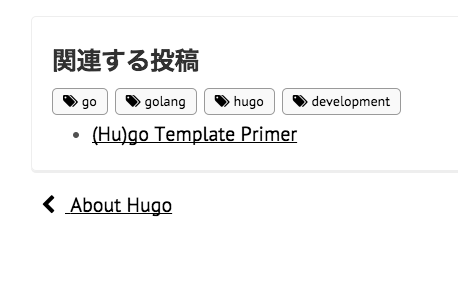
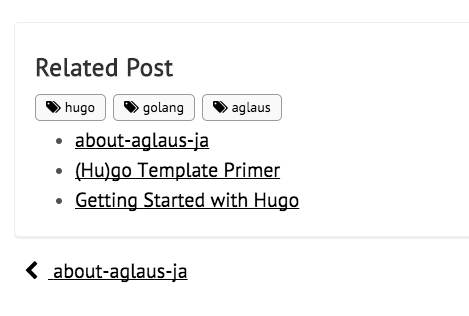
rebuilding site Wed Jan  7 22:39:31 JST 2015

diff --git a/index.html b/index.html
@@ -77,16 +77,16 @@
     <article class="post">
         <div class="eyecatch">
             
-            <a href="http://yet.unresolved.xyz/hugo_theme_aglaus/blog/2015/01/06/about-aglaus-ja/"><img src="/images/hugo.png" alt="about-aglaus-ja"></a>
+            <a href="http://yet.unresolved.xyz/hugo_theme_aglaus/blog/2015/01/06/about-aglaus/"><img src="/images/hugo.png" alt="about-aglaus"></a>
             
         </div>
         <div class="data">
             <span class="post-date">Tue, Jan 6, 2015</span>
-            <h1 class="post-title"><a href="http://yet.unresolved.xyz/hugo_theme_aglaus/blog/2015/01/06/about-aglaus-ja/">about-aglaus-ja</a></h1>
-            <div class="summary">Hugo用テーマ[Aglaus]について AglausはGolangで書かれた静的サイトジェネレータ、Hugo用のテーマです。 導入方法についてはAglausのREADME.mdを参照してください。 コメント Disqusが導入出来ます。 config.yamlのDisqusを設定し、記事のMarkdownにcomments: trueを設定してください。 設定されなかった場合、コメント欄は表示されません。 特定の記事のみコメントを拒否する場合は、commentsを未設定にするか、falseを設定してください。 --- title: &quot;about-aglaus&quot; date: 2015-01-06 comments: false --- ## About hugo theme [Aglaus] : : 日本語用の記事タイトル Hugoは記事のパーマリンク設定に:titleを含めた場合、Markdownに記述されたtitleをURLに設定します。 日本語を設定するとパーセントエンコードされた形でURLが生成されますが、Aglausではtitlejaを設定することで、記事のタイトルを別途設定出来ます。 --- title: &quot;about-aglaus&quot; // URLに設定される titleja: &quot;Aglausについて&quot; // 記事のタイトルとして表示される date: 2015-01-06 --- ## About hugo theme [Aglaus] : : titlejaタグを設定しなかった場合はtitleが設定されます。 アイキャッチ画像 記事単位にアイキャッチ画像が設定出来ます。 記事のMarkdownファイルにeyecatchを設定し、static/images/以下に画像を配備してください。 --- title: &quot;about-aglaus&quot; eyecatch: &quot;hugo.png&quot; date: 2015-01-06 --- ## About hugo theme [Aglaus] : : 不要な場合は記述を削除することでデフォルト画像が表示されます。 タギング tagsを設定することで、記事にタグをつけることが出来ます。 --- title:</div>
+            <h1 class="post-title"><a href="http://yet.unresolved.xyz/hugo_theme_aglaus/blog/2015/01/06/about-aglaus/">about-aglaus</a></h1>
+            <div class="summary">About hugo theme [Aglaus] Aglaus is theme for Hugo. Please refer to the README.md of Aglaus for introduction method. Comment You can use Disqus. Set Disqus to config.yaml, and set comments: true to Markdown. If you did not set, the comments section is not displayed. If you want to deny a comment only particular article, you can either unset the comments, please set the false. --- title: &quot;about-aglaus&quot; date: 2015-01-06 comments: false --- ## About hugo theme [Aglaus] : : Eyecatch image Eye-catching image can be set to the article unit.</div>
         </div>
         <footer class="readon">
-            <a href="http://yet.unresolved.xyz/hugo_theme_aglaus/blog/2015/01/06/about-aglaus-ja/">
+            <a href="http://yet.unresolved.xyz/hugo_theme_aglaus/blog/2015/01/06/about-aglaus/">
                 <i class="fa fa-chevron-down"></i>
             </a>
         </footer>
@@ -98,16 +98,16 @@
     <article class="post">
         <div class="eyecatch">
             
-            <a href="http://yet.unresolved.xyz/hugo_theme_aglaus/blog/2015/01/06/about-aglaus/"><img src="/images/hugo.png" alt="about-aglaus"></a>
+            <a href="http://yet.unresolved.xyz/hugo_theme_aglaus/blog/2015/01/06/about-aglaus-ja/"><img src="/images/hugo.png" alt="about-aglaus-ja"></a>
             
         </div>
         <div class="data">
             <span class="post-date">Tue, Jan 6, 2015</span>
-            <h1 class="post-title"><a href="http://yet.unresolved.xyz/hugo_theme_aglaus/blog/2015/01/06/about-aglaus/">about-aglaus</a></h1>
-            <div class="summary">About hugo theme [Aglaus] Aglaus is theme for Hugo. Please refer to the README.md of Aglaus for introduction method. Comment You can use Disqus. Set Disqus to config.yaml, and set comments: true to Markdown. If you did not set, the comments section is not displayed. If you want to deny a comment only particular article, you can either unset the comments, please set the false. --- title: &quot;about-aglaus&quot; date: 2015-01-06 comments: false --- ## About hugo theme [Aglaus] : : Eyecatch image Eye-catching image can be set to the article unit.</div>
+            <h1 class="post-title"><a href="http://yet.unresolved.xyz/hugo_theme_aglaus/blog/2015/01/06/about-aglaus-ja/">about-aglaus-ja</a></h1>
+            <div class="summary">Hugo用テーマ[Aglaus]について AglausはGolangで書かれた静的サイトジェネレータ、Hugo用のテーマです。 導入方法についてはAglausのREADME.mdを参照してください。 コメント Disqusが導入出来ます。 config.yamlのDisqusを設定し、記事のMarkdownにcomments: trueを設定してください。 設定されなかった場合、コメント欄は表示されません。 特定の記事のみコメントを拒否する場合は、commentsを未設定にするか、falseを設定してください。 --- title: &quot;about-aglaus&quot; date: 2015-01-06 comments: false --- ## About hugo theme [Aglaus] : : 日本語用の記事タイトル Hugoは記事のパーマリンク設定に:titleを含めた場合、Markdownに記述されたtitleをURLに設定します。 日本語を設定するとパーセントエンコードされた形でURLが生成されますが、Aglausではtitlejaを設定することで、記事のタイトルを別途設定出来ます。 --- title: &quot;about-aglaus&quot; // URLに設定される titleja: &quot;Aglausについて&quot; // 記事のタイトルとして表示される date: 2015-01-06 --- ## About hugo theme [Aglaus] : : titlejaタグを設定しなかった場合はtitleが設定されます。 アイキャッチ画像 記事単位にアイキャッチ画像が設定出来ます。 記事のMarkdownファイルにeyecatchを設定し、static/images/以下に画像を配備してください。 --- title: &quot;about-aglaus&quot; eyecatch: &quot;hugo.png&quot; date: 2015-01-06 --- ## About hugo theme [Aglaus] : : 不要な場合は記述を削除することでデフォルト画像が表示されます。 タギング tagsを設定することで、記事にタグをつけることが出来ます。 --- title:</div>
         </div>
         <footer class="readon">
-            <a href="http://yet.unresolved.xyz/hugo_theme_aglaus/blog/2015/01/06/about-aglaus/">
+            <a href="http://yet.unresolved.xyz/hugo_theme_aglaus/blog/2015/01/06/about-aglaus-ja/">
                 <i class="fa fa-chevron-down"></i>
             </a>
         </footer>

diff --git a/blog/2015/01/06/about-aglaus/index.html b/blog/2015/01/06/about-aglaus/index.html
@@ -235,11 +235,11 @@ tags: [&quot;hugo&quot;, &quot;aglaus&quot;]
             
             
             
+            
+            
+            
+            
             <li><a href="http://yet.unresolved.xyz/hugo_theme_aglaus/blog/2015/01/06/about-aglaus-ja/">about-aglaus-ja</a></li>
-            
-            
-            
-            
             
             
             
@@ -271,16 +271,11 @@ tags: [&quot;hugo&quot;, &quot;aglaus&quot;]
         <div class="move">
             <div class="prev">
                 
-                <a href="http://yet.unresolved.xyz/hugo_theme_aglaus/blog/2015/01/06/about-aglaus-ja/">
-                    <i class="fa fa-chevron-left"></i>
-                    about-aglaus-ja
-                </a>
-                
             </div>
             <div class="next">
                 
-                <a href="http://yet.unresolved.xyz/hugo_theme_aglaus/about/">
-                    About Hugo
+                <a href="http://yet.unresolved.xyz/hugo_theme_aglaus/blog/2015/01/06/about-aglaus-ja/">
+                    about-aglaus-ja
                     <i class="fa fa-chevron-right"></i>
                 </a>
                 

diff --git a/blog/2015/01/06/about-aglaus-ja/index.html b/blog/2015/01/06/about-aglaus-ja/index.html
@@ -254,11 +254,11 @@ tags: [&quot;hugo&quot;, &quot;aglaus&quot;]
             
             
             
-            
-            
-            
-            
             <li><a href="http://yet.unresolved.xyz/hugo_theme_aglaus/blog/2015/01/06/about-aglaus/">about-aglaus</a></li>
+            
+            
+            
+            
             
             
             
@@ -290,11 +290,16 @@ tags: [&quot;hugo&quot;, &quot;aglaus&quot;]
         <div class="move">
             <div class="prev">
                 
+                <a href="http://yet.unresolved.xyz/hugo_theme_aglaus/blog/2015/01/06/about-aglaus/">
+                    <i class="fa fa-chevron-left"></i>
+                    about-aglaus
+                </a>
+                
             </div>
             <div class="next">
                 
-                <a href="http://yet.unresolved.xyz/hugo_theme_aglaus/blog/2015/01/06/about-aglaus/">
-                    about-aglaus
+                <a href="http://yet.unresolved.xyz/hugo_theme_aglaus/about/">
+                    About Hugo
                     <i class="fa fa-chevron-right"></i>
                 </a>
                 

diff --git a/blog/2014/04/02/getting-started-with-hugo/index.html b/blog/2014/04/02/getting-started-with-hugo/index.html
@@ -202,13 +202,13 @@ Having nearly instant feedback enables you to have your creativity flow without 
             
             
             
-            <li><a href="http://yet.unresolved.xyz/hugo_theme_aglaus/blog/2015/01/06/about-aglaus-ja/">about-aglaus-ja</a></li>
-            
-            
-            
-            
-            
             <li><a href="http://yet.unresolved.xyz/hugo_theme_aglaus/blog/2015/01/06/about-aglaus/">about-aglaus</a></li>
+            
+            
+            
+            
+            
+            <li><a href="http://yet.unresolved.xyz/hugo_theme_aglaus/blog/2015/01/06/about-aglaus-ja/">about-aglaus-ja</a></li>
             
             
             

diff --git a/blog/2014/04/02/hugo-template-primer/index.html b/blog/2014/04/02/hugo-template-primer/index.html
@@ -468,13 +468,13 @@ so, such as in this example:</p>
             
             
             
-            <li><a href="http://yet.unresolved.xyz/hugo_theme_aglaus/blog/2015/01/06/about-aglaus-ja/">about-aglaus-ja</a></li>
-            
-            
-            
-            
-            
             <li><a href="http://yet.unresolved.xyz/hugo_theme_aglaus/blog/2015/01/06/about-aglaus/">about-aglaus</a></li>
+            
+            
+            
+            
+            
+            <li><a href="http://yet.unresolved.xyz/hugo_theme_aglaus/blog/2015/01/06/about-aglaus-ja/">about-aglaus-ja</a></li>
             
             
             

diff --git a/about/index.html b/about/index.html
@@ -155,9 +155,9 @@
         <div class="move">
             <div class="prev">
                 
-                <a href="http://yet.unresolved.xyz/hugo_theme_aglaus/blog/2015/01/06/about-aglaus/">
+                <a href="http://yet.unresolved.xyz/hugo_theme_aglaus/blog/2015/01/06/about-aglaus-ja/">
                     <i class="fa fa-chevron-left"></i>
-                    about-aglaus
+                    about-aglaus-ja
                 </a>
                 
             </div>
